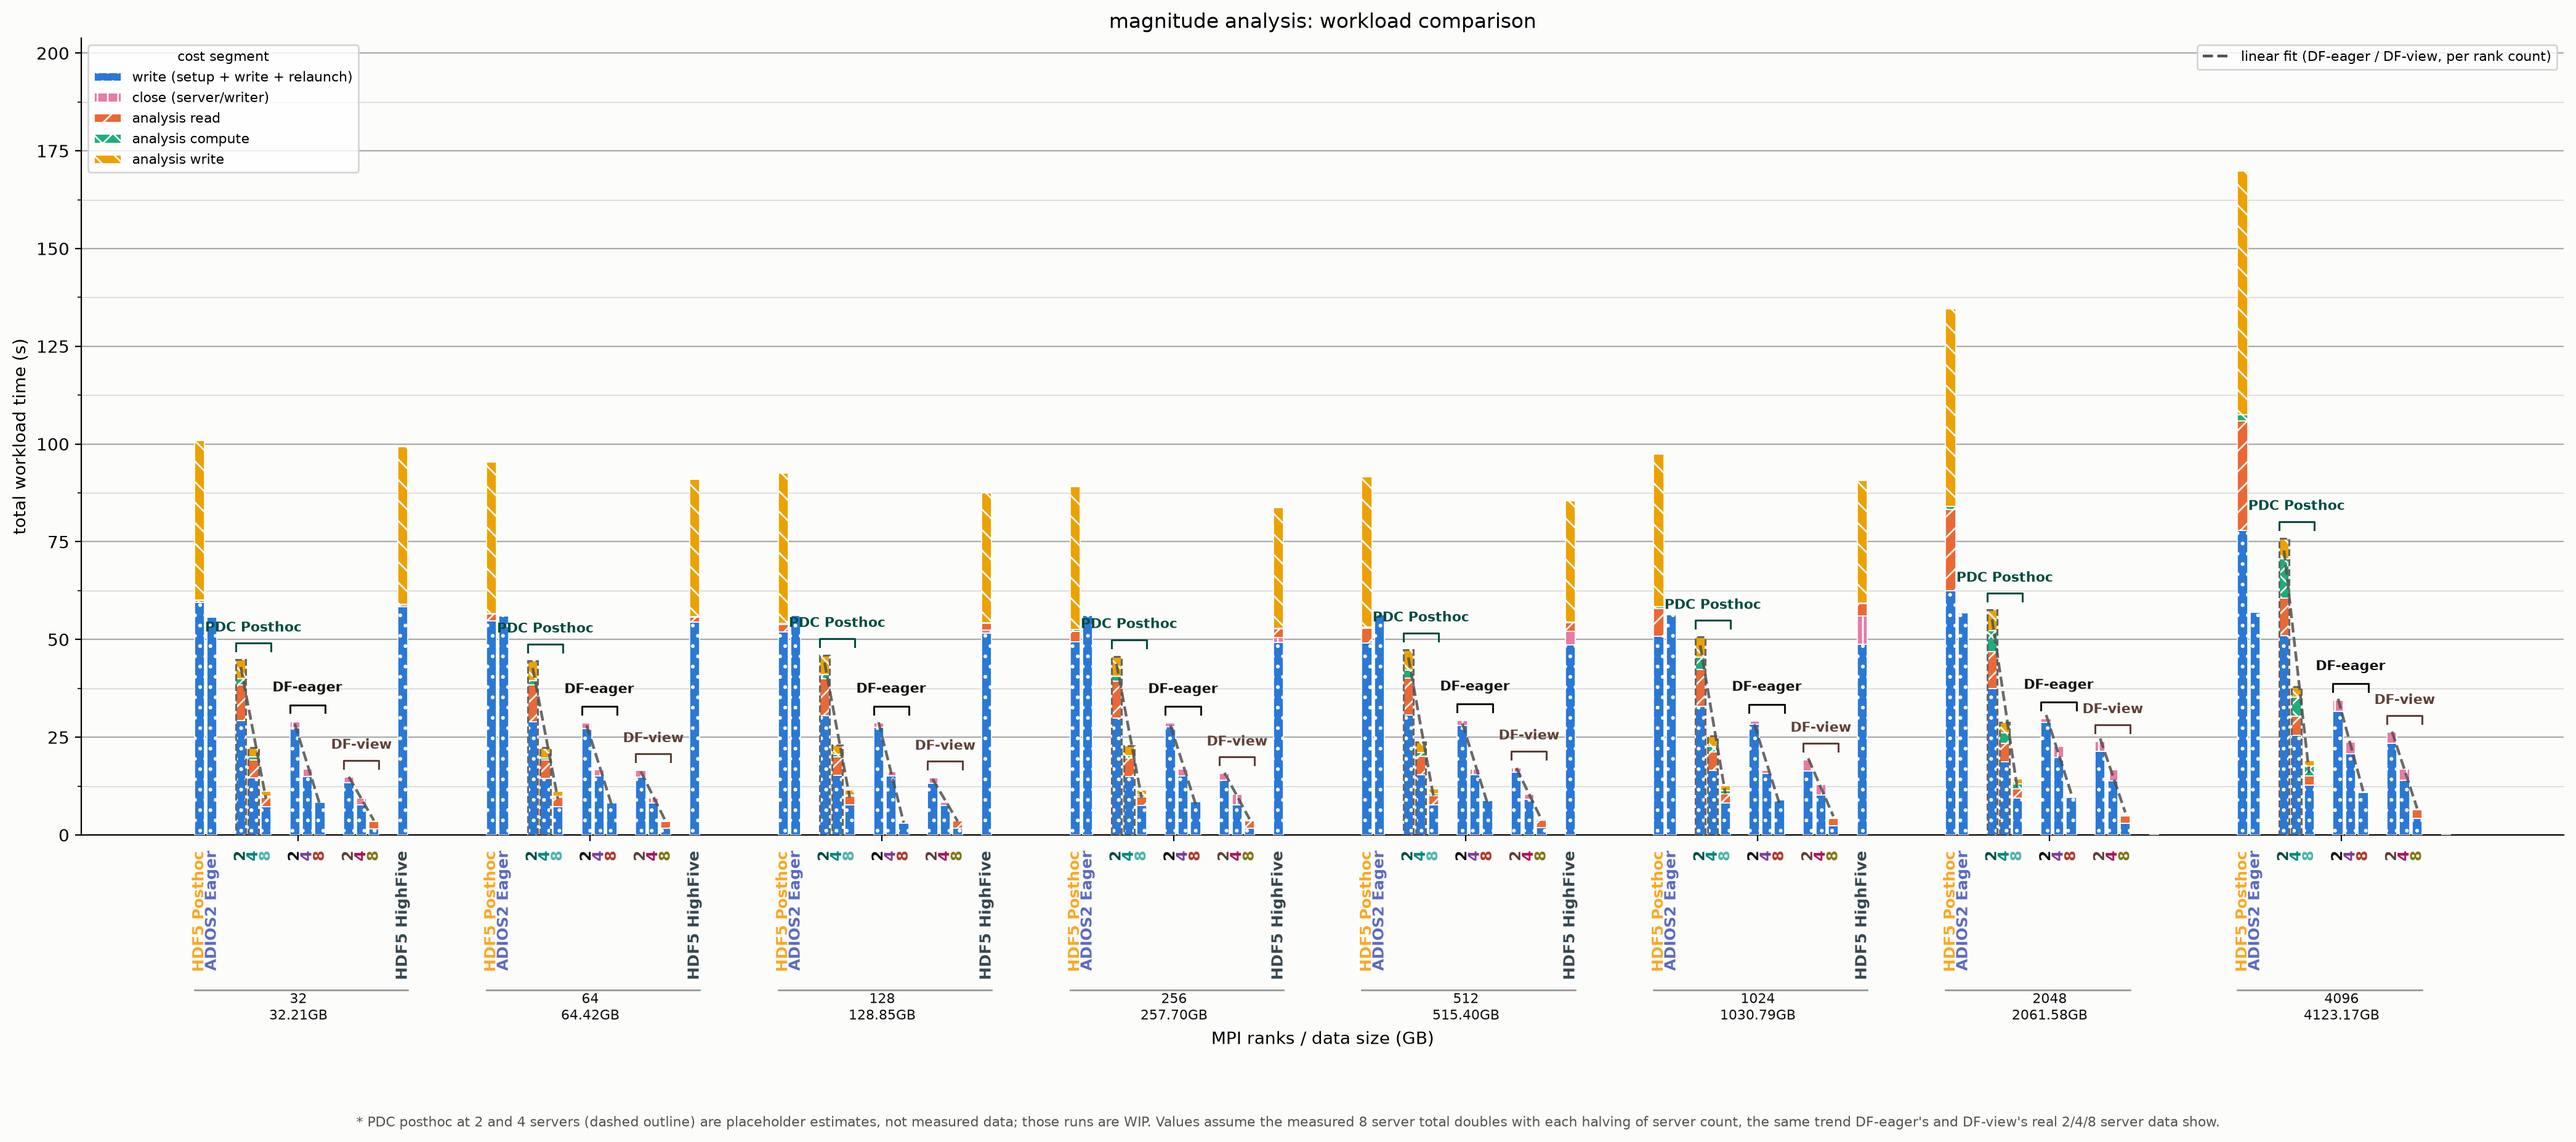
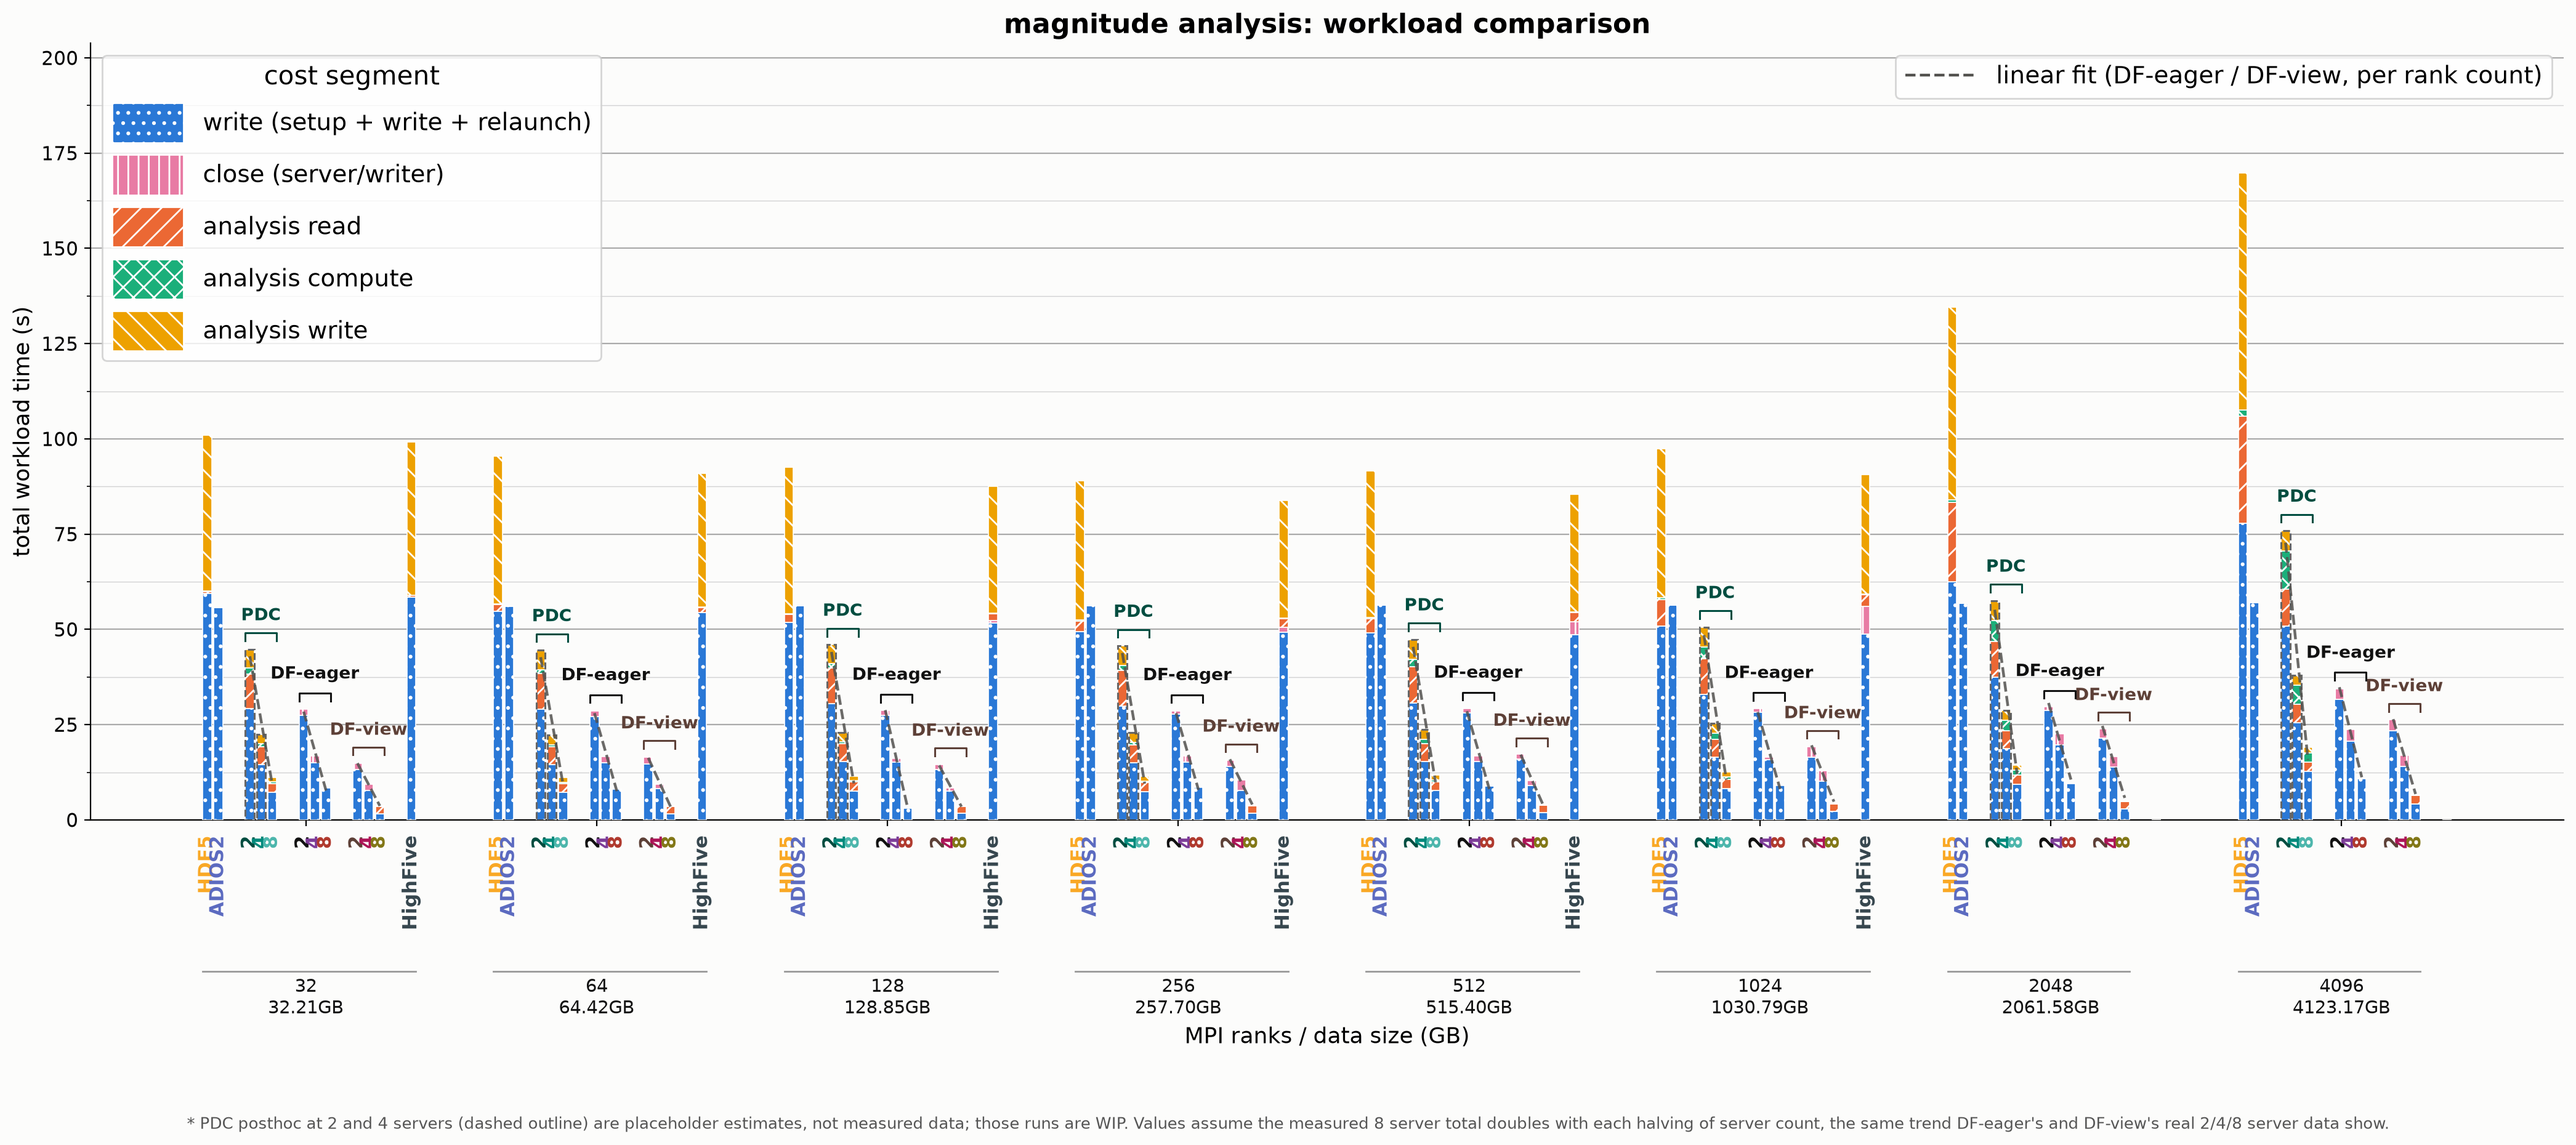
Larger fonts/legends, shorter labels, fix vpicio legend/bracket overlap
Bumped fontsize across all three comparison scripts: axis titles
(13pt), chart titles (16pt bold), tick labels (~11pt), rotated bar
labels (11pt), bracket headers (~10pt), and legends (14pt body/15pt
title, with larger handlelength/handleheight/markersize so the color
swatches scale with the text instead of staying tiny next to now-much
larger labels).

Shortened mode labels for readability now that they're bigger: "HDF5
Posthoc" -> "HDF5", "ADIOS2 Eager"/"ADIOS2 (client-side compute)" ->
"ADIOS2", "HDF5 HighFive" -> "HighFive", "PDC Posthoc" -> "PDC" (bar
labels and bracket headers in magnitude/curl); vpicio's bracket labels
drop their redundant second "Strong" line the same way magnitude's
already did. Widened magnitude's GAP_RATIO (1.3 -> 1.8) to compensate
for the larger bracket font needing more clearance from neighboring
bars.

vpicio_comparison.png's "PDC Raw" bracket for the leftmost rank-count
group sat directly under the (now much larger) cost-segment legend,
washing the text out -- increased that chart's y-axis headroom
(1.2x -> 1.8x max height) so the legend has room above every bracket.

Claude-Session: https://claude.ai/code/session_018SQY4wo4xQPFn1NkY3KKc6

diff --git a/pdc_helper_scripts/plots/plot_magnitude_comparison.py b/pdc_helper_scripts/plots/plot_magnitude_comparison.py
@@ -162,9 +162,9 @@ MODE_ORDER = ["hdf5", "magnitude_highfive", "adios2_magnitude", "eager_posthoc"]
 DEFAULT_PLOT_MODES = ["hdf5", "magnitude_highfive", "adios2_magnitude"]
 MODE_LABEL = {
     "eager_posthoc": "DF-eager+PH",
-    "hdf5": "HDF5 Posthoc",
-    "magnitude_highfive": "HDF5 HighFive",
-    "adios2_magnitude": "ADIOS2 Eager",
+    "hdf5": "HDF5",
+    "magnitude_highfive": "HighFive",
+    "adios2_magnitude": "ADIOS2",
 }
 # Identity color for each mode's bar-top label (a separate visual channel
 # from the segment fill above). Deliberately distinct from the
@@ -207,7 +207,7 @@ WIP_POSTHOC_SERVERS = {4: 2.0, 2: 4.0}
 # WIP_POSTHOC_SERVERS); the bracket/trend-line treatment is otherwise
 # identical to DF-eager/DF-view, per explicit request.
 MULTI_SERVER_MODES = {
-    "posthoc": {"bracket_label": "PDC Posthoc", "colors": ["#004D40", "#00897B", "#4DB6AC"]},
+    "posthoc": {"bracket_label": "PDC", "colors": ["#004D40", "#00897B", "#4DB6AC"]},
     "eager": {"bracket_label": "DF-eager", "colors": ["#111111", "#7D3C98", "#B03A2E"]},
     "lazy": {"bracket_label": "DF-view", "colors": ["#5D4037", "#AD1457", "#827717"]},
 }
@@ -521,7 +521,7 @@ def main():
         return "single"
 
     n_transitions = sum(1 for a, b in zip(series, series[1:]) if cluster_of(a) != cluster_of(b))
-    GAP_RATIO = 1.3
+    GAP_RATIO = 1.8
     slot_width = group_width / max(n_bars + n_transitions * GAP_RATIO, 1)
     bar_width = slot_width * 0.8
     x = np.arange(n_groups)
@@ -602,7 +602,7 @@ def main():
             ax.plot([x0, x0, x1, x1], [bracket_y - tick_h, bracket_y, bracket_y, bracket_y - tick_h],
                     color=color, linewidth=1.1, zorder=6, clip_on=False)
             ax.text((x0 + x1) / 2, bracket_y + y_max * 0.012, info["bracket_label"],
-                    ha="center", va="bottom", fontsize=8, fontweight="bold", color=color, linespacing=1.3)
+                    ha="center", va="bottom", fontsize=10, fontweight="bold", color=color, linespacing=1.3)
 
     # Linear best-fit line through each rank-count group's 2/4/8-server
     # totals, once per MULTI_SERVER_MODES entry -- same convention/
@@ -631,12 +631,13 @@ def main():
 
     ax.set_xticks(x)
     ax.set_xticklabels([rank_gb_label(n) for n in all_ranks])
-    ax.set_xlabel("MPI ranks / data size (GB)")
-    ax.set_ylabel("total workload time (s)")
+    ax.set_xlabel("MPI ranks / data size (GB)", fontsize=13)
+    ax.set_ylabel("total workload time (s)", fontsize=13)
     title = "magnitude analysis: workload comparison"
     if args.server_count is not None:
         title += f" ({args.server_count} servers/node)"
-    ax.set_title(title)
+    ax.set_title(title, fontsize=16, fontweight="bold")
+    ax.tick_params(axis="y", labelsize=11)
     ax.yaxis.set_minor_locator(AutoMinorLocator(2))
     ax.yaxis.grid(True, which="major", linestyle="-", linewidth=0.8, color="#888888", alpha=0.7, zorder=0)
     ax.yaxis.grid(True, which="minor", linestyle="-", linewidth=0.5, color="#aaaaaa", alpha=0.5, zorder=0)
@@ -654,12 +655,12 @@ def main():
             ax.text(
                 bar_centers[(key, gi)], -0.02, bar_label(key),
                 transform=label_trans, rotation=90, ha="center", va="top",
-                fontsize=9, fontweight="bold", color=bar_label_color(key), clip_on=False,
+                fontsize=11, fontweight="bold", color=bar_label_color(key), clip_on=False,
             )
     # Smaller, darker ranks/GB tick labels so they read clearly against
     # the taller rotated bar labels and strong-scaling brackets crowding
     # the space right above them.
-    ax.tick_params(axis="x", pad=88, labelsize=8, labelcolor="#111111")
+    ax.tick_params(axis="x", pad=88, labelsize=10.5, labelcolor="#111111")
 
     # A line spanning each rank-count group's own bars, sitting just above
     # that group's ranks/GB tick label, so it's visually obvious which
@@ -681,12 +682,12 @@ def main():
     ]
     seg_handles = [mpatches.Patch(facecolor=SEGMENT_COLOR[s], hatch=SEGMENT_HATCH[s], edgecolor="white") for s in seg_keys]
     seg_labels = [SEGMENT_LABEL[s] for s in seg_keys]
-    leg1 = ax.legend(seg_handles, seg_labels, title="cost segment", loc="upper left", fontsize=8, title_fontsize=8)
+    leg1 = ax.legend(seg_handles, seg_labels, title="cost segment", loc="upper left", fontsize=14, title_fontsize=15, handlelength=3, handleheight=2.2)
     ax.add_artist(leg1)
 
     if trend_label_used:
         trend_handle = plt.Line2D([0], [0], linestyle="--", linewidth=1.6, color=TREND_COLOR)
-        ax.legend([trend_handle], ["linear fit (DF-eager / DF-view, per rank count)"], loc="upper right", fontsize=8)
+        ax.legend([trend_handle], ["linear fit (DF-eager / DF-view, per rank count)"], loc="upper right", fontsize=14, handlelength=3)
 
     if any(is_wip(k) for k in series):
         fig.text(
@@ -694,7 +695,7 @@ def main():
             "* PDC posthoc at 2 and 4 servers (dashed outline) are placeholder estimates, not measured "
             "data; those runs are WIP. Values assume the measured 8 server total doubles with each halving of "
             "server count, the same trend DF-eager's and DF-view's real 2/4/8 server data show.",
-            ha="center", va="top", fontsize=8, color="#555555", wrap=True,
+            ha="center", va="top", fontsize=9.5, color="#555555", wrap=True,
         )
 
     fig.savefig(out_path, dpi=200, bbox_inches="tight")

diff --git a/pdc_helper_scripts/plots/plot_vpicio_comparison.py b/pdc_helper_scripts/plots/plot_vpicio_comparison.py
@@ -147,10 +147,10 @@ SEGMENT_HATCH = {"write_main": "..", "write_outlier": "///", "close": "||"}
 # order they were added to transformation/vpicio_zfp/ (CPU, then GPU,
 # then GPU+encrypt).
 MULTI_SERVER_MODES = {
-    "vpicio_raw": {"bracket_label": "PDC Raw\nStrong", "colors": ["#0B3C5D", "#328CC1", "#89C2D9"]},
-    "zfp_compress_cpu": {"bracket_label": "PDC ZFP CPU\nStrong", "colors": ["#6A3D9A", "#9D6FC2", "#C9A6E0"]},
-    "zfp_compress_gpu": {"bracket_label": "PDC ZFP GPU\nStrong", "colors": ["#1B7A3D", "#4CAF6B", "#8FD4A3"]},
-    "zfp_gpu_then_encrypt": {"bracket_label": "PDC ZFP GPU\n+Encrypt Strong", "colors": ["#B03A2E", "#D9694F", "#F0A48B"]},
+    "vpicio_raw": {"bracket_label": "PDC Raw", "colors": ["#0B3C5D", "#328CC1", "#89C2D9"]},
+    "zfp_compress_cpu": {"bracket_label": "PDC ZFP CPU", "colors": ["#6A3D9A", "#9D6FC2", "#C9A6E0"]},
+    "zfp_compress_gpu": {"bracket_label": "PDC ZFP GPU", "colors": ["#1B7A3D", "#4CAF6B", "#8FD4A3"]},
+    "zfp_gpu_then_encrypt": {"bracket_label": "PDC ZFP GPU+Encrypt", "colors": ["#B03A2E", "#D9694F", "#F0A48B"]},
 }
 # Single-bar-per-rank-count mode (no server). Reuses
 # plot_magnitude_comparison.py's / plot_curl_comparison.py's own ADIOS2
@@ -417,7 +417,11 @@ def main():
             bar_centers[(key, gi)] = x[gi] + offset
 
     y_max = max((sum(per_series[k][n].values()) for k in series for n in per_series[k]), default=1.0)
-    ax.set_ylim(0, y_max * 1.2)
+    # Extra headroom so the leftmost group's bracket, which sits right
+    # where the (large, per explicit request) "cost segment" legend is
+    # anchored, has enough vertical clearance not to render underneath
+    # (and visually washed out by) the legend box.
+    ax.set_ylim(0, y_max * 1.8)
 
     # Strong-scaling bracket + two-line header above each
     # MULTI_SERVER_MODES cluster's 3 server-count bars, same convention
@@ -436,7 +440,7 @@ def main():
             ax.plot([x0, x0, x1, x1], [bracket_y - tick_h, bracket_y, bracket_y, bracket_y - tick_h],
                     color=color, linewidth=1.1, zorder=6, clip_on=False)
             ax.text((x0 + x1) / 2, bracket_y + y_max * 0.012, info["bracket_label"],
-                    ha="center", va="bottom", fontsize=7.5, fontweight="bold", color=color, linespacing=1.3)
+                    ha="center", va="bottom", fontsize=9.5, fontweight="bold", color=color, linespacing=1.3)
 
     # Linear best-fit line through each rank-count group's 2/4/8-server
     # totals, once per MULTI_SERVER_MODES entry.
@@ -462,9 +466,10 @@ def main():
 
     ax.set_xticks(x)
     ax.set_xticklabels([str(n) for n in all_ranks])
-    ax.set_xlabel("MPI ranks")
-    ax.set_ylabel("total workload time (s)")
-    ax.set_title("VPIC-IO: write-throughput comparison")
+    ax.set_xlabel("MPI ranks", fontsize=13)
+    ax.set_ylabel("total workload time (s)", fontsize=13)
+    ax.set_title("VPIC-IO: write-throughput comparison", fontsize=16, fontweight="bold")
+    ax.tick_params(axis="y", labelsize=11)
     ax.yaxis.set_minor_locator(AutoMinorLocator(2))
     ax.yaxis.grid(True, which="major", linestyle="-", linewidth=0.8, color="#888888", alpha=0.7, zorder=0)
     ax.yaxis.grid(True, which="minor", linestyle="-", linewidth=0.5, color="#aaaaaa", alpha=0.5, zorder=0)
@@ -480,9 +485,9 @@ def main():
             ax.text(
                 bar_centers[(key, gi)], -0.02, bar_label(key),
                 transform=label_trans, rotation=90, ha="center", va="top",
-                fontsize=9, fontweight="bold", color=bar_label_color(key), clip_on=False,
+                fontsize=11, fontweight="bold", color=bar_label_color(key), clip_on=False,
             )
-    ax.tick_params(axis="x", pad=88, labelsize=8, labelcolor="#111111")
+    ax.tick_params(axis="x", pad=88, labelsize=10.5, labelcolor="#111111")
 
     group_line_trans = mtransforms.blended_transform_factory(ax.transData, ax.transAxes)
     for gi, n_ranks in enumerate(all_ranks):
@@ -498,12 +503,12 @@ def main():
     seg_keys = [s for s in SEGMENT_ORDER if any(per_series[k].get(n, {}).get(s, 0.0) > 0 for k in series for n in all_ranks)]
     seg_handles = [mpatches.Patch(facecolor=SEGMENT_COLOR[s], hatch=SEGMENT_HATCH[s], edgecolor="white") for s in seg_keys]
     seg_labels = [SEGMENT_LABEL[s] for s in seg_keys]
-    leg1 = ax.legend(seg_handles, seg_labels, title="cost segment", loc="upper left", fontsize=8, title_fontsize=8)
+    leg1 = ax.legend(seg_handles, seg_labels, title="cost segment", loc="upper left", fontsize=14, title_fontsize=15, handlelength=3, handleheight=2.2)
     ax.add_artist(leg1)
 
     if trend_label_used:
         trend_handle = plt.Line2D([0], [0], linestyle="--", linewidth=1.6, color=TREND_COLOR)
-        ax.legend([trend_handle], ["linear fit (per server-swept variant, per rank count)"], loc="upper right", fontsize=8)
+        ax.legend([trend_handle], ["linear fit (per server-swept variant, per rank count)"], loc="upper right", fontsize=14, handlelength=3)
 
     fig.savefig(out_path, dpi=200, bbox_inches="tight")
     print(f"Wrote {out_path}")

diff --git a/pdc_helper_scripts/plots/plot_curl_comparison.py b/pdc_helper_scripts/plots/plot_curl_comparison.py
@@ -194,7 +194,7 @@ OTHER_MODE_LABEL = {
 # the rotated text never grows tall enough to collide with the ranks/GB
 # tick labels below it) -- the full description above still appears in
 # the "method / series" legend.
-OTHER_MODE_BAR_LABEL = {"eager_compress": "Eager+ZFP", "posthoc": "PDC Posthoc", "hdf5": "HDF5 Posthoc", "adios2_curl": "ADIOS2"}
+OTHER_MODE_BAR_LABEL = {"eager_compress": "Eager+ZFP", "posthoc": "PDC", "hdf5": "HDF5", "adios2_curl": "ADIOS2"}
 
 TREND_COLOR = "#52514e"
 
@@ -449,11 +449,11 @@ def main():
             ax.text(
                 bar_centers[(key, gi)], -0.02, bar_label(key),
                 transform=label_trans, rotation=90, ha="center", va="top",
-                fontsize=8.5, fontweight="bold", color=bar_label_color(key), clip_on=False,
+                fontsize=11, fontweight="bold", color=bar_label_color(key), clip_on=False,
             )
     # Smaller, darker ranks/GB tick labels so they read clearly against
     # the taller rotated bar labels crowding the space right above them.
-    ax.tick_params(axis="x", pad=88, labelsize=8, labelcolor="#111111")
+    ax.tick_params(axis="x", pad=88, labelsize=10.5, labelcolor="#111111")
 
     # A line spanning each rank-count group's own bars, sitting just above
     # that group's ranks/GB tick label, so it's visually obvious which
@@ -506,9 +506,10 @@ def main():
 
     ax.set_xticks(x)
     ax.set_xticklabels([rank_gb_label(n) for n in all_ranks])
-    ax.set_xlabel("MPI ranks / data size (GB)")
-    ax.set_ylabel("total workload time (s)")
-    ax.set_title("curl + vorticity-magnitude: eager strong scaling vs. other methods")
+    ax.set_xlabel("MPI ranks / data size (GB)", fontsize=13)
+    ax.set_ylabel("total workload time (s)", fontsize=13)
+    ax.set_title("curl + vorticity-magnitude: eager strong scaling vs. other methods", fontsize=16, fontweight="bold")
+    ax.tick_params(axis="y", labelsize=11)
     ax.yaxis.set_minor_locator(AutoMinorLocator(2))
     ax.yaxis.grid(True, which="major", linestyle="-", linewidth=0.8, color="#888888", alpha=0.7, zorder=0)
     ax.yaxis.grid(True, which="minor", linestyle="-", linewidth=0.5, color="#aaaaaa", alpha=0.5, zorder=0)
@@ -522,11 +523,11 @@ def main():
     ]
     seg_handles = [mpatches.Patch(facecolor=SEGMENT_COLOR[s], hatch=SEGMENT_HATCH[s], edgecolor="white") for s in seg_keys]
     seg_labels = [SEGMENT_LABEL[s] for s in seg_keys]
-    leg1 = ax.legend(seg_handles, seg_labels, title="cost segment", loc="upper left", fontsize=8, title_fontsize=8)
+    leg1 = ax.legend(seg_handles, seg_labels, title="cost segment", loc="upper left", fontsize=14, title_fontsize=15, handlelength=3, handleheight=2.2)
     ax.add_artist(leg1)
 
     series_handles = [
-        plt.Line2D([0], [0], marker="s", linestyle="none", markersize=8,
+        plt.Line2D([0], [0], marker="s", linestyle="none", markersize=12,
                    markerfacecolor=bar_label_color(k), markeredgecolor=bar_label_color(k))
         for k in series
     ]
@@ -534,7 +535,7 @@ def main():
     trend_handle = plt.Line2D([0], [0], linestyle="--", linewidth=1.6, color=TREND_COLOR)
     ax.legend(
         series_handles + [trend_handle], series_labels + ["linear fit (eager, per rank count)"],
-        title="method / series", loc="upper right", fontsize=8, title_fontsize=8,
+        title="method / series", loc="upper right", fontsize=14, title_fontsize=15, handlelength=3,
     )
 
     y_max = max((sum(segs.values()) for k in series for segs, _ in per_series[k].values()), default=1.0)
